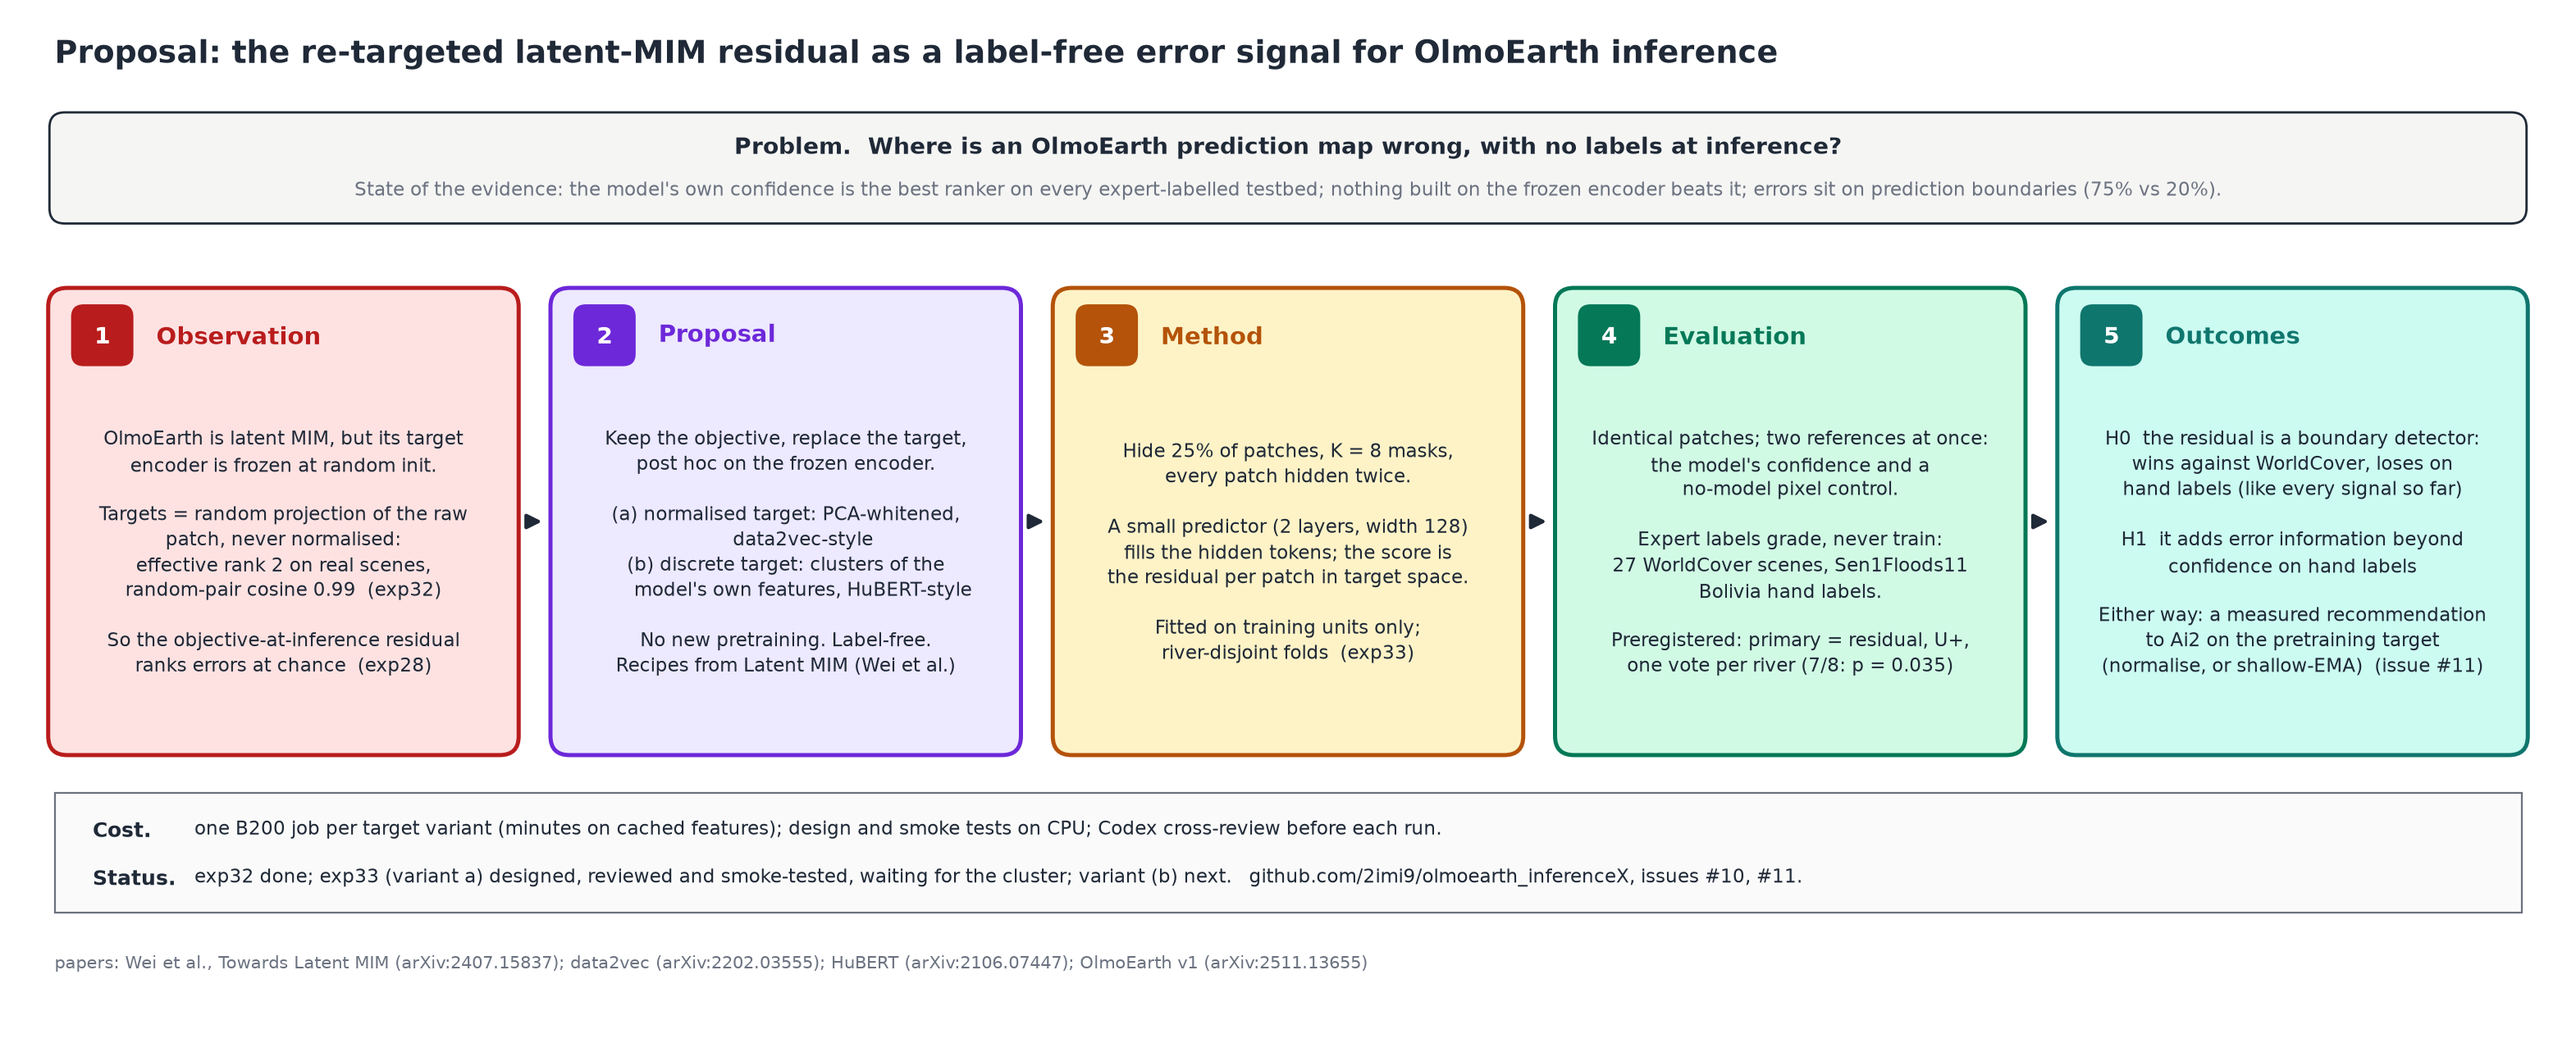
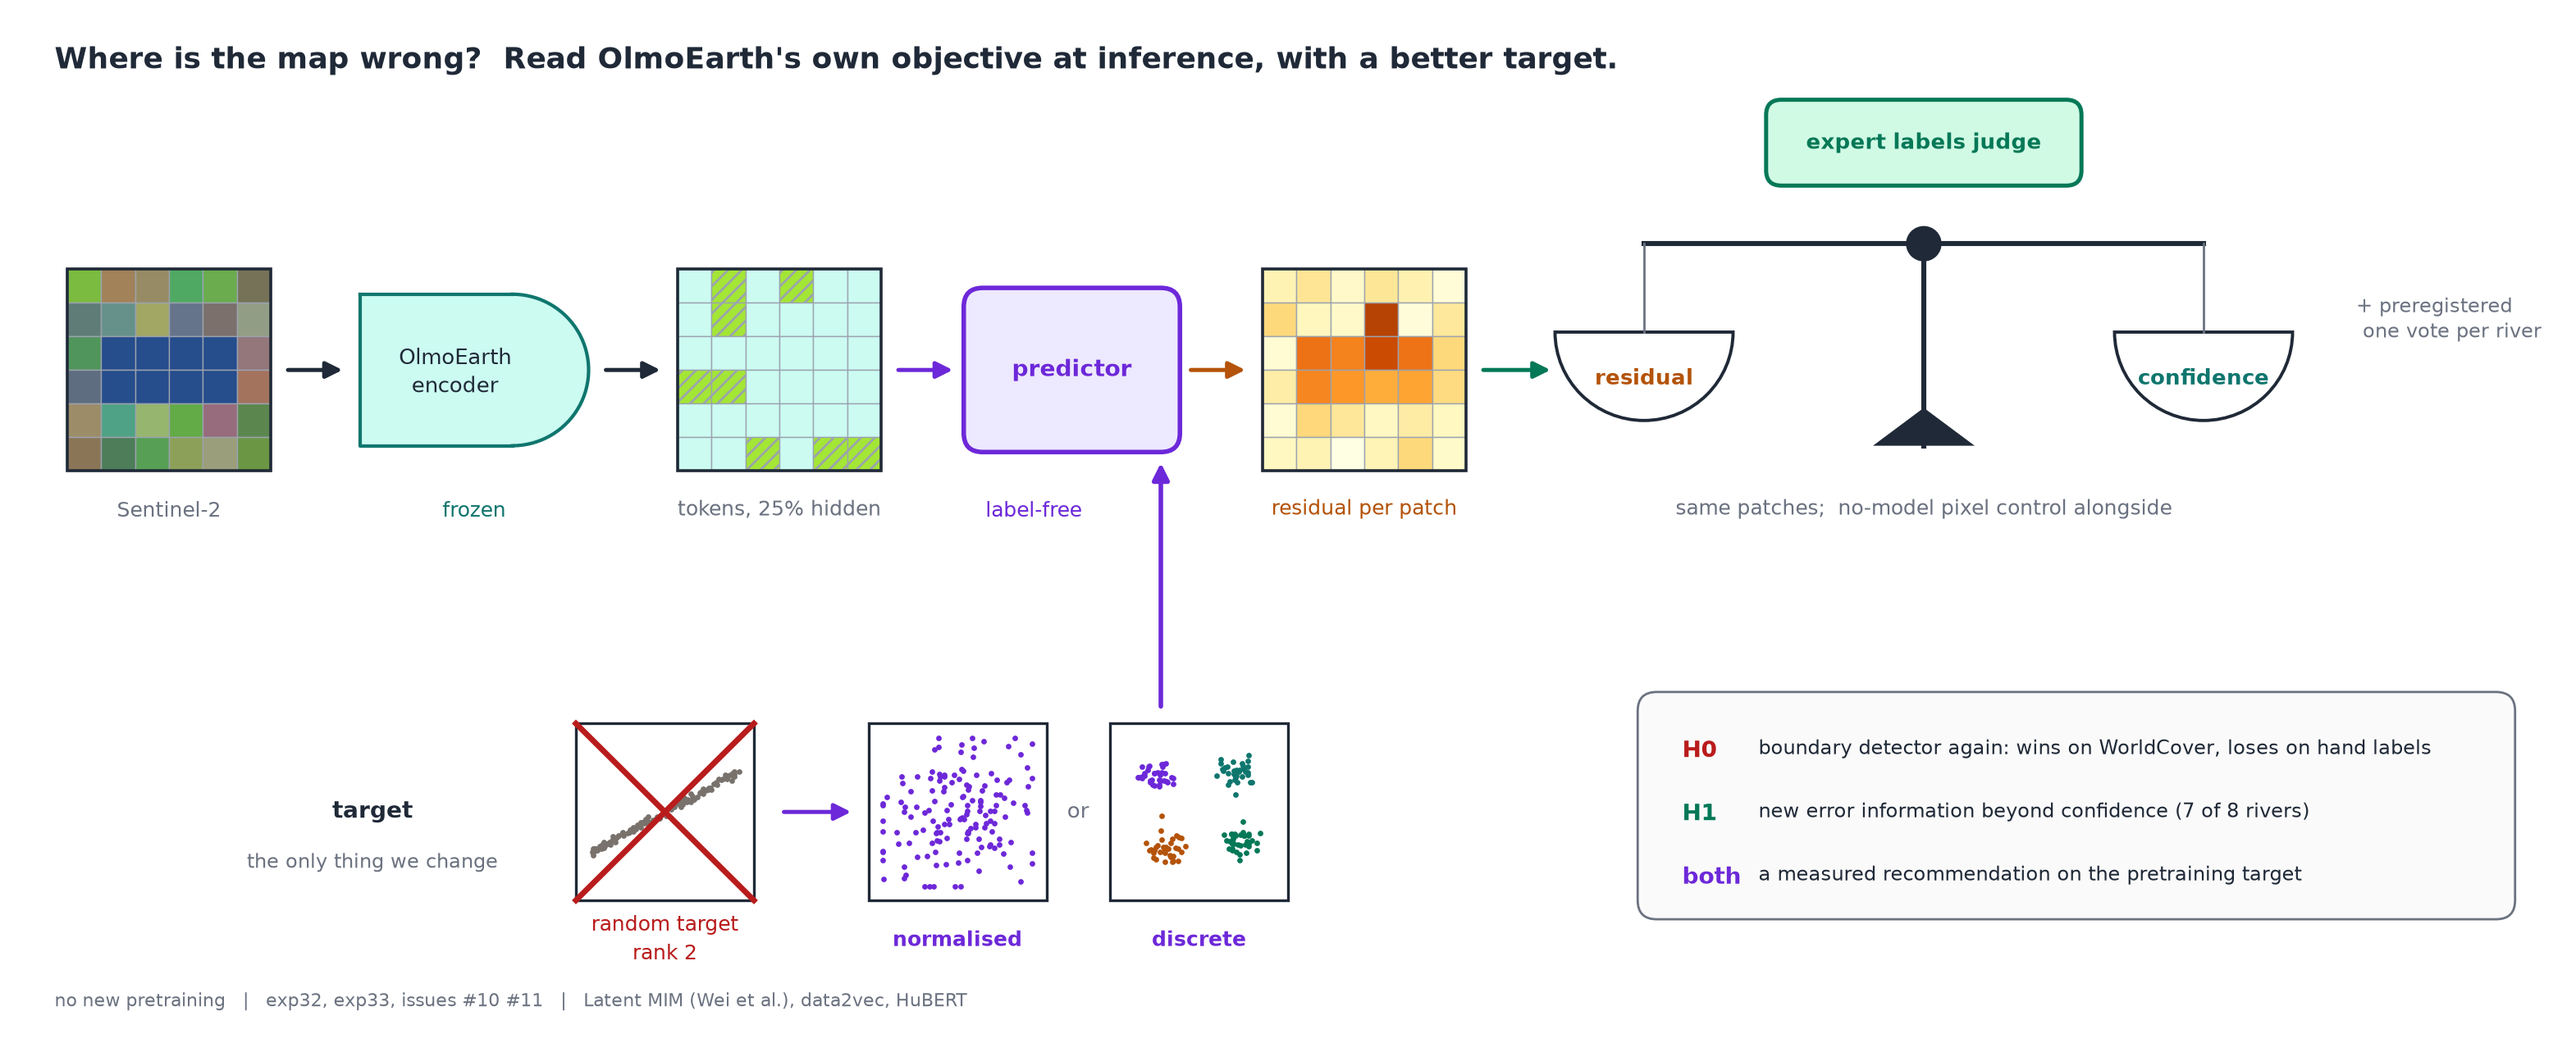
docs: proposal figure as a picture, minimal words

diff --git a/docs/figures/proposal_retargeted_residual.py b/docs/figures/proposal_retargeted_residual.py
@@ -1,70 +1,127 @@
-"""Renders docs/figures/proposal_retargeted_residual.png: the research proposal in one figure. Problem, observation
-(exp32, exp28), proposal (issue #10), method (exp33), evaluation (docs/method/protocol.md), outcomes."""
+"""Renders docs/figures/proposal_retargeted_residual.png: the proposal as a picture with as few words as possible.
+Stages: window -> frozen encoder -> tokens (25% hidden) -> predictor -> residual map -> signal, judged on a balance
+against confidence with expert labels; below, the target swap (rank-2 random target -> normalised / discrete)."""
 import matplotlib
 matplotlib.use("Agg")
 import numpy as np  # noqa: E402
 import matplotlib.pyplot as plt  # noqa: E402
-from matplotlib.patches import FancyArrowPatch, FancyBboxPatch, Rectangle  # noqa: E402
+from matplotlib.patches import Circle, FancyArrowPatch, FancyBboxPatch, Polygon, Rectangle, Wedge  # noqa: E402
 
 fig, ax = plt.subplots(figsize=(20, 8), dpi=200)
 ax.set_xlim(0, 200); ax.set_ylim(0, 80); ax.axis("off")
 INK, MUTED = "#1f2937", "#6b7280"
-TEAL, TEAL_L = "#0f766e", "#ccfbf1"
-CROSS, CROSS_L = "#b91c1c", "#fee2e2"
+TEAL, TEAL_L, LIME = "#0f766e", "#ccfbf1", "#a3e635"
+CROSS, STONE, STONE_L = "#b91c1c", "#78716c", "#e7e5e4"
 VIOLET, VIOLET_L = "#6d28d9", "#ede9fe"
-AMBER, AMBER_L = "#b45309", "#fef3c7"
-EMERALD, EMERALD_L = "#047857", "#d1fae5"
-NAVY = "#1e3a8a"
+AMBER, EMERALD, EMERALD_L = "#b45309", "#047857", "#d1fae5"
+rng = np.random.default_rng(1)
 
 
-def text(x, y, t, fs=9, color=INK, weight="normal", ha="center", va="center"):
-    ax.text(x, y, t, ha=ha, va=va, fontsize=fs, color=color, weight=weight, linespacing=1.35)
+def text(x, y, t, fs=9.5, color=INK, weight="normal", ha="center", va="center"):
+    ax.text(x, y, t, ha=ha, va=va, fontsize=fs, color=color, weight=weight, linespacing=1.3)
 
 
-def arrow(x0, y0, x1, y1, color=MUTED, lw=1.6):
-    ax.add_patch(FancyArrowPatch((x0, y0), (x1, y1), arrowstyle="-|>", mutation_scale=13, color=color, lw=lw))
+def arrow(x0, y0, x1, y1, color=INK, lw=1.8):
+    ax.add_patch(FancyArrowPatch((x0, y0), (x1, y1), arrowstyle="-|>", mutation_scale=15, color=color, lw=lw))
 
 
-def card(x, y, w, h, title, body, fc, ec, n):
-    ax.add_patch(FancyBboxPatch((x, y), w, h, boxstyle="round,pad=0.5,rounding_size=1.5", fc=fc, ec=ec, lw=1.8))
-    ax.add_patch(FancyBboxPatch((x + 1.5, y + h - 5.5), 4.5, 4.5, boxstyle="round,pad=0.2,rounding_size=1", fc=ec, ec="none"))
-    text(x + 3.75, y + h - 3.25, str(n), fs=10, color="white", weight="bold")
-    text(x + 8, y + h - 3.25, title, fs=10.5, color=ec, weight="bold", ha="left")
-    text(x + w / 2, y + (h - 6) / 2 + 0.5, body, fs=8.2)
+def encoder(x, y, w, h, fc, ec):
+    ax.add_patch(Rectangle((x, y), w - h / 2, h, fc=fc, ec="none"))
+    ax.add_patch(Wedge((x + w - h / 2, y + h / 2), h / 2, -90, 90, fc=fc, ec="none"))
+    ax.plot([x, x, x + w - h / 2], [y + h, y, y], color=ec, lw=1.5)
+    ax.plot([x, x + w - h / 2], [y + h, y + h], color=ec, lw=1.5)
+    th = np.linspace(-np.pi / 2, np.pi / 2, 50)
+    ax.plot(x + w - h / 2 + h / 2 * np.cos(th), y + h / 2 + h / 2 * np.sin(th), color=ec, lw=1.5)
 
 
-# title and problem banner
-text(3, 77, "Proposal: the re-targeted latent-MIM residual as a label-free error signal for OlmoEarth inference", fs=13.5, weight="bold", ha="left")
-ax.add_patch(FancyBboxPatch((3, 64), 194, 8, boxstyle="round,pad=0.4,rounding_size=1.2", fc="#f5f5f4", ec=INK, lw=1.0))
-text(100, 69.6, "Problem.  Where is an OlmoEarth prediction map wrong, with no labels at inference?", fs=10, weight="bold")
-text(100, 66.2, "State of the evidence: the model's own confidence is the best ranker on every expert-labelled testbed; nothing built on the frozen encoder beats it; "
-     "errors sit on prediction boundaries (75% vs 20%).", fs=8.2, color=MUTED)
+def grid(x, y, size, n, colors, hatch=None):
+    c = size / n
+    for i in range(n):
+        for j in range(n):
+            ax.add_patch(Rectangle((x + j * c, y + (n - 1 - i) * c), c, c, fc=colors[i][j], ec="#9ca3af", lw=0.5,
+                                   hatch="////" if hatch is not None and hatch[i, j] else None))
+    ax.add_patch(Rectangle((x, y), size, size, fill=False, ec=INK, lw=1.3))
 
-W, H, Y = 36, 36, 22
-X = [3, 42.5, 82, 121.5, 161]
-card(X[0], Y, W, H, "Observation", "OlmoEarth is latent MIM, but its target\nencoder is frozen at random init.\n\n"
-     "Targets = random projection of the raw\npatch, never normalised:\neffective rank 2 on real scenes,\nrandom-pair cosine 0.99  (exp32)\n\n"
-     "So the objective-at-inference residual\nranks errors at chance  (exp28)", CROSS_L, CROSS, 1)
-card(X[1], Y, W, H, "Proposal", "Keep the objective, replace the target,\npost hoc on the frozen encoder.\n\n"
-     "(a) normalised target: PCA-whitened,\n      data2vec-style\n(b) discrete target: clusters of the\n      model's own features, HuBERT-style\n\n"
-     "No new pretraining. Label-free.\nRecipes from Latent MIM (Wei et al.)", VIOLET_L, VIOLET, 2)
-card(X[2], Y, W, H, "Method", "Hide 25% of patches, K = 8 masks,\nevery patch hidden twice.\n\n"
-     "A small predictor (2 layers, width 128)\nfills the hidden tokens; the score is\nthe residual per patch in target space.\n\n"
-     "Fitted on training units only;\nriver-disjoint folds  (exp33)", AMBER_L, AMBER, 3)
-card(X[3], Y, W, H, "Evaluation", "Identical patches; two references at once:\nthe model's confidence and a\nno-model pixel control.\n\n"
-     "Expert labels grade, never train:\n27 WorldCover scenes, Sen1Floods11\nBolivia hand labels.\n\n"
-     "Preregistered: primary = residual, U+,\none vote per river (7/8: p = 0.035)", EMERALD_L, EMERALD, 4)
-card(X[4], Y, W, H, "Outcomes", "H0  the residual is a boundary detector:\nwins against WorldCover, loses on\nhand labels (like every signal so far)\n\n"
-     "H1  it adds error information beyond\nconfidence on hand labels\n\n"
-     "Either way: a measured recommendation\nto Ai2 on the pretraining target\n(normalise, or shallow-EMA)  (issue #11)", TEAL_L, TEAL, 5)
-for i in range(4):
-    arrow(X[i] + W + 0.8, Y + H / 2, X[i + 1] - 0.8, Y + H / 2, color=INK)
 
-# footer: cost and links
-ax.add_patch(Rectangle((3, 9), 194, 9.5, fc="#fafafa", ec=MUTED, lw=0.8))
-text(6, 15.6, "Cost.", fs=9, weight="bold", ha="left")
-text(14, 15.6, "one B200 job per target variant (minutes on cached features); design and smoke tests on CPU; Codex cross-review before each run.", fs=8.2, ha="left")
-text(6, 11.8, "Status.", fs=9, weight="bold", ha="left")
-text(14, 11.8, "exp32 done; exp33 (variant a) designed, reviewed and smoke-tested, waiting for the cluster; variant (b) next.   github.com/2imi9/olmoearth_inferenceX, issues #10, #11.", fs=8.2, ha="left")
-text(3, 5, "papers: Wei et al., Towards Latent MIM (arXiv:2407.15837); data2vec (arXiv:2202.03555); HuBERT (arXiv:2106.07447); OlmoEarth v1 (arXiv:2511.13655)", fs=7.6, color=MUTED, ha="left")
+text(3, 76.5, "Where is the map wrong?  Read OlmoEarth's own objective at inference, with a better target.", fs=13, weight="bold", ha="left")
+
+# ------------------------------------------------------------------ main flow, y centre 52
+Y = 44
+n = 6
+base = rng.random((n, n, 3)) * 0.35 + np.array([0.3, 0.4, 0.2]); base[2:4, 1:5] = [0.15, 0.3, 0.55]
+grid(4, Y, 16, n, [[tuple(base[i, j]) for j in range(n)] for i in range(n)])
+text(12, Y - 3, "Sentinel-2", fs=9, color=MUTED)
+arrow(21, Y + 8, 26, Y + 8)
+encoder(27, Y + 2, 18, 12, TEAL_L, TEAL)
+text(34.5, Y + 8, "OlmoEarth\nencoder", fs=9.5)
+text(36, Y - 3, "frozen", fs=9, color=TEAL)
+arrow(46, Y + 8, 51, Y + 8)
+hidden = rng.random((n, n)) < 0.25
+grid(52, Y, 16, n, [[LIME if hidden[i, j] else TEAL_L for j in range(n)] for i in range(n)], hatch=hidden)
+text(60, Y - 3, "tokens, 25% hidden", fs=9, color=MUTED)
+arrow(69, Y + 8, 74, Y + 8, color=VIOLET)
+ax.add_patch(FancyBboxPatch((75, Y + 2), 16, 12, boxstyle="round,pad=0.5,rounding_size=1.5", fc=VIOLET_L, ec=VIOLET, lw=2))
+text(83, Y + 8, "predictor", fs=10, color=VIOLET, weight="bold")
+text(80, Y - 3, "label-free", fs=9, color=VIOLET)
+arrow(92, Y + 8, 97, Y + 8, color=AMBER)
+res = rng.random((n, n)) * 0.3; res[2, 1:5] += 0.5; res[3, 1:5] += 0.35; res[1, 3] += 0.55
+cm = plt.get_cmap("YlOrBr")
+grid(98, Y, 16, n, [[cm(min(res[i, j], 1)) for j in range(n)] for i in range(n)])
+text(106, Y - 3, "residual per patch", fs=9, color=AMBER)
+arrow(115, Y + 8, 121, Y + 8, color=EMERALD)
+
+# the balance: residual vs confidence, judged by expert labels
+bx, by = 150, Y + 4
+ax.plot([bx, bx], [by - 2, by + 14], color=INK, lw=2.2)
+ax.add_patch(Polygon([(bx - 4, by - 2), (bx + 4, by - 2), (bx, by + 1)], closed=True, fc=INK))
+ax.plot([bx - 22, bx + 22], [by + 14, by + 14], color=INK, lw=2.2)
+for dx, label, col in ((-22, "residual", AMBER), (22, "confidence", TEAL)):
+    ax.plot([bx + dx, bx + dx], [by + 14, by + 7], color=MUTED, lw=1)
+    ax.add_patch(Wedge((bx + dx, by + 7), 7, 180, 360, fc="white", ec=INK, lw=1.4))
+    text(bx + dx, by + 3.5, label, fs=9.5, color=col, weight="bold")
+ax.add_patch(Circle((bx, by + 14), 1.4, fc=INK))
+ax.add_patch(FancyBboxPatch((bx - 12, by + 19), 24, 6, boxstyle="round,pad=0.4,rounding_size=1.2", fc=EMERALD_L, ec=EMERALD, lw=1.8))
+text(bx, by + 22, "expert labels judge", fs=9.5, color=EMERALD, weight="bold")
+text(bx, Y - 3, "same patches;  no-model pixel control alongside", fs=9, color=MUTED)
+text(bx + 34, by + 8, "+ preregistered\n one vote per river", fs=8.5, color=MUTED, ha="left")
+
+# ------------------------------------------------------------------ the target swap, below the predictor
+ty = 10
+def scatter(x, y, pts, color, size=14):
+    ax.add_patch(Rectangle((x, y), size, size, fc="white", ec=INK, lw=1.2))
+    ax.scatter(x + size / 2 + pts[:, 0] * size * 0.42, y + size / 2 + pts[:, 1] * size * 0.42, s=6, color=color, lw=0)
+
+
+# rank-2 random target: points on a line
+t = rng.uniform(-1, 1, 120)
+line = np.stack([t, 0.55 * t + rng.normal(0, 0.03, 120)], 1)
+scatter(44, ty, line, STONE)
+ax.plot([44, 58], [ty, ty + 14], color=CROSS, lw=2.5); ax.plot([44, 58], [ty + 14, ty], color=CROSS, lw=2.5)
+text(51, ty - 3, "random target\nrank 2", fs=9, color=CROSS)
+arrow(60, ty + 7, 66, ty + 7, color=VIOLET)
+scatter(67, ty, np.clip(rng.normal(0, 0.5, (150, 2)), -1, 1), VIOLET)
+text(74, ty - 3, "normalised", fs=9, color=VIOLET, weight="bold")
+text(83.5, ty + 7, "or", fs=9.5, color=MUTED)
+cents = np.array([[-0.55, 0.5], [0.5, 0.55], [-0.45, -0.5], [0.55, -0.4]])
+cols = [VIOLET, TEAL, AMBER, EMERALD]
+ax.add_patch(Rectangle((86, ty), 14, 14, fc="white", ec=INK, lw=1.2))
+for c, col in zip(cents, cols):
+    p = c + rng.normal(0, 0.12, (35, 2))
+    ax.scatter(86 + 7 + p[:, 0] * 14 * 0.42, ty + 7 + p[:, 1] * 14 * 0.42, s=6, color=col, lw=0)
+text(93, ty - 3, "discrete", fs=9, color=VIOLET, weight="bold")
+arrow(90, ty + 15, 90, Y + 1, color=VIOLET, lw=2)
+text(28, ty + 7, "target", fs=10, weight="bold", color=INK)
+text(28, ty + 3, "the only thing we change", fs=8.5, color=MUTED)
+
+# outcomes at the right, below the balance
+ox = 128
+ax.add_patch(FancyBboxPatch((ox, ty - 1), 68, 17, boxstyle="round,pad=0.5,rounding_size=1.5", fc="#fafafa", ec=MUTED, lw=1))
+text(ox + 3, ty + 12, "H0", fs=10, weight="bold", ha="left", color=CROSS)
+text(ox + 9, ty + 12, "boundary detector again: wins on WorldCover, loses on hand labels", fs=8.5, ha="left")
+text(ox + 3, ty + 7, "H1", fs=10, weight="bold", ha="left", color=EMERALD)
+text(ox + 9, ty + 7, "new error information beyond confidence (7 of 8 rivers)", fs=8.5, ha="left")
+text(ox + 3, ty + 2, "both", fs=10, weight="bold", ha="left", color=VIOLET)
+text(ox + 9, ty + 2, "a measured recommendation on the pretraining target", fs=8.5, ha="left")
+
+text(3, 2, "no new pretraining   |   exp32, exp33, issues #10 #11   |   Latent MIM (Wei et al.), data2vec, HuBERT", fs=8, color=MUTED, ha="left")
 fig.savefig("docs/figures/proposal_retargeted_residual.png", bbox_inches="tight", facecolor="white")
